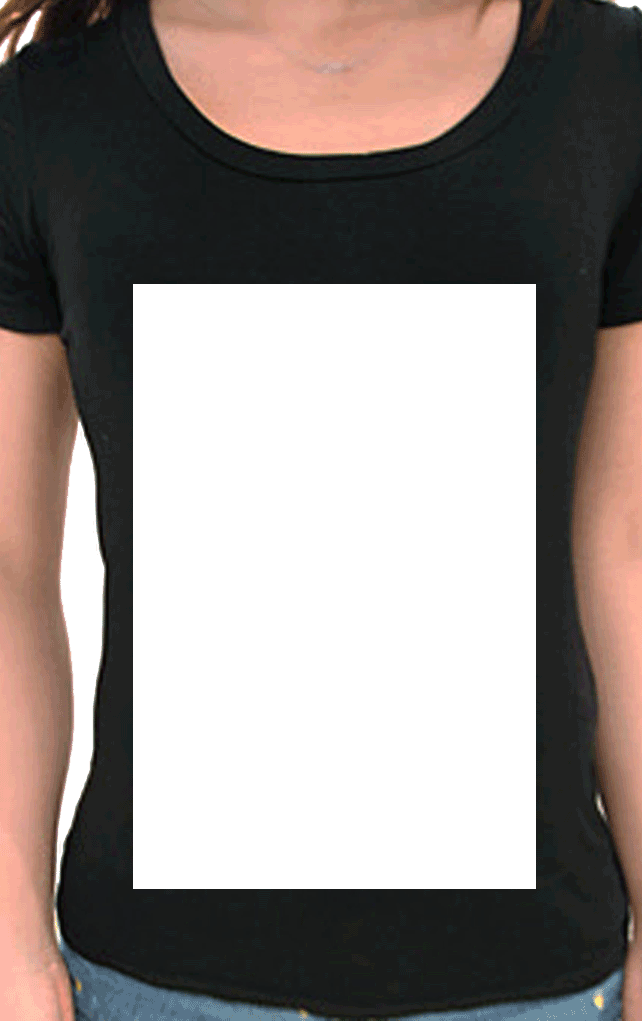
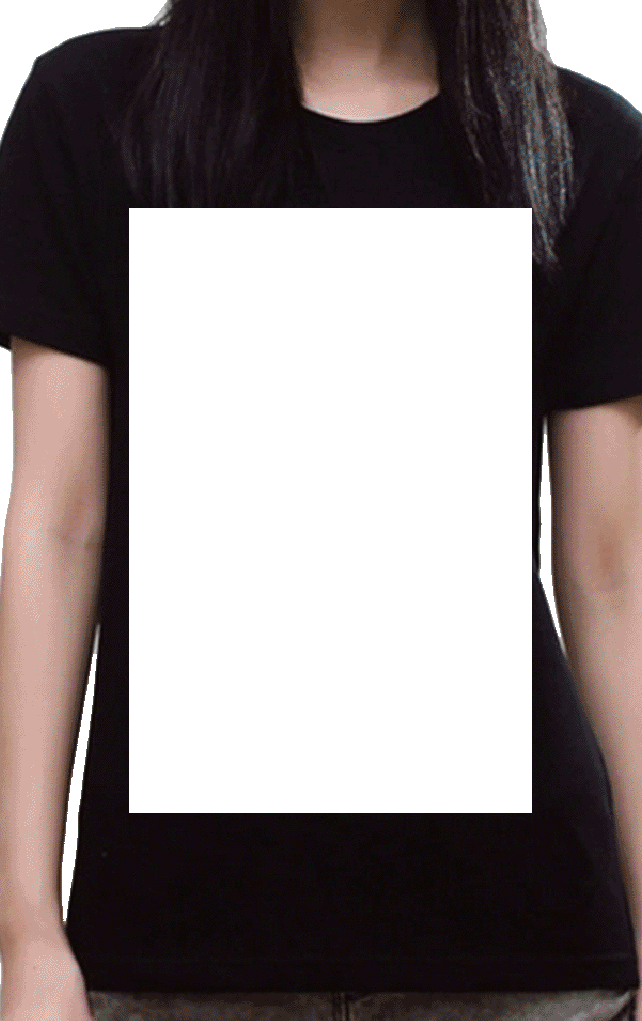
update preview

diff --git a/app/views/createDesign.js b/app/views/createDesign.js
@@ -685,14 +685,23 @@ oCreateDesign.controller('CreateDesignCtrl', ['$scope', '$location', '$upload', 
                 if ($scope.designInfo.color === 'white') {
                     $scope.designInfo.bkImg = 'img/female_white.png';
                     $scope.designInfo.previewBkImg = 'img/female_white_preview.png';
-                    var aStylePart = $scope.htmlItemStyle.availableArea.styleStr.split(';');
-                    aStylePart.splice(aStylePart.length - 2, 2);
-                    $scope.htmlItemStyle.availableArea.styleStr = aStylePart.join(';');
-                    $scope.htmlItemStyle.availableArea.styleStr += ';'
+                    if ($scope.htmlItemStyle.previewBackgroundStyle === '') {
+                        var sNewStyle = $scope.addKeyToStyle($scope.htmlItemStyle.availableArea.styleStr, 'background-color', 'inherit');
+                        $scope.htmlItemStyle.availableArea.styleStr = sNewStyle;
+                    } else {
+                        var sNewStyle = $scope.removeKeyFromStyle($scope.htmlItemStyle.availableArea.styleStr, 'background-color');
+                        $scope.htmlItemStyle.availableArea.styleStr = sNewStyle;
+                    }
                 } else {
                     $scope.designInfo.bkImg = 'img/female_black.png';
                     $scope.designInfo.previewBkImg = 'img/female_black_preview.png';
-                    $scope.htmlItemStyle.availableArea.styleStr += 'background-color:rgba(255,255,255,0.3);';
+                    if ($scope.htmlItemStyle.previewBackgroundStyle === '') {
+                        var sNewStyle = $scope.addKeyToStyle($scope.htmlItemStyle.availableArea.styleStr, 'background-color', 'inherit');
+                        $scope.htmlItemStyle.availableArea.styleStr = sNewStyle;
+                    } else {
+                        var sNewStyle = $scope.addKeyToStyle($scope.htmlItemStyle.availableArea.styleStr, 'background-color', 'rgba(255,255,255,0.3)');
+                        $scope.htmlItemStyle.availableArea.styleStr = sNewStyle;
+                    }
                 }
             }
         };
@@ -913,6 +922,8 @@ oCreateDesign.controller('CreateDesignCtrl', ['$scope', '$location', '$upload', 
                 "left:" + oArtifact.styleValue.left + "px;" + 
                 "width:" + oArtifact.imgWidth + "px;";
 
+            //oArtifact.styleStr = $scope.addKeyToStyle(oArtifact.styleStr, 'border', '2px dotted rgb(215, 180, 104)');
+
             oArtifact.pencilStyleStr = "top:" + oArtifact.styleValue.top + "px;" + 
                 "left:" + oArtifact.styleValue.pencilLeft + "px;";
 
@@ -987,10 +998,10 @@ oCreateDesign.controller('CreateDesignCtrl', ['$scope', '$location', '$upload', 
             var iWidth = oBkImg.clientWidth;
             var iHeight = oBkImg.clientHeight;
             $scope.htmlItemStyle.availableArea.visible = true;
-            $scope.htmlItemStyle.availableArea.width = iWidth * 0.6;
+            $scope.htmlItemStyle.availableArea.width = iWidth * 0.63;
             $scope.htmlItemStyle.availableArea.height = $scope.htmlItemStyle.availableArea.width * 1.5;
-            $scope.htmlItemStyle.availableArea.left = iWidth * 0.21;
-            $scope.htmlItemStyle.availableArea.top = iHeight * 0.22;
+            $scope.htmlItemStyle.availableArea.left = iWidth * 0.20;
+            $scope.htmlItemStyle.availableArea.top = iHeight * 0.20;
 
             if ($scope.aSelectedArtifact.length > 0) {
                 $scope.htmlItemStyle.availableArea.styleStr = "visibility:visible;" + 
@@ -1179,8 +1190,34 @@ oCreateDesign.controller('CreateDesignCtrl', ['$scope', '$location', '$upload', 
             // });
             if ($scope.htmlItemStyle.previewBackgroundStyle !== "") {
                 $scope.htmlItemStyle.previewBackgroundStyle = "";
+                for (var i = 0; i < $scope.aSelectedArtifact.length; i++) {
+                    var oCurArti = $scope.aSelectedArtifact[i];
+                    var sNewStyle = $scope.addKeyToStyle(oCurArti.styleStr, 'border', 'none');
+                    oCurArti.styleStr = sNewStyle;
+                }
+
+                if ($scope.designInfo.color === 'white') {
+                    var sNewAvailableStyle = $scope.addKeyToStyle($scope.htmlItemStyle.availableArea.styleStr, 'background-color', 'inherit');
+                    $scope.htmlItemStyle.availableArea.styleStr = sNewAvailableStyle;
+                } else {
+                    var sNewAvailableStyle = $scope.addKeyToStyle($scope.htmlItemStyle.availableArea.styleStr, 'background-color', 'inherit');
+                    $scope.htmlItemStyle.availableArea.styleStr = sNewAvailableStyle;
+                }
             } else {
                 $scope.htmlItemStyle.previewBackgroundStyle = "display:none;";
+                for (var i = 0; i < $scope.aSelectedArtifact.length; i++) {
+                    var oCurArti = $scope.aSelectedArtifact[i];
+                    var sNewStyle = $scope.removeKeyFromStyle(oCurArti.styleStr, 'border');
+                    oCurArti.styleStr = sNewStyle;
+                }
+
+                if ($scope.designInfo.color === 'white') {
+                    var sNewAvailableStyle = $scope.removeKeyFromStyle($scope.htmlItemStyle.availableArea.styleStr, 'background-color');
+                    $scope.htmlItemStyle.availableArea.styleStr = sNewAvailableStyle;
+                } else {
+                    var sNewAvailableStyle = $scope.addKeyToStyle($scope.htmlItemStyle.availableArea.styleStr, 'background-color', 'rgba(255,255,255,0.3)');
+                    $scope.htmlItemStyle.availableArea.styleStr = sNewAvailableStyle;
+                }
             }
         };
 
@@ -1336,6 +1373,52 @@ oCreateDesign.controller('CreateDesignCtrl', ['$scope', '$location', '$upload', 
                 var sInfo = JSON.stringify(oInfo);
                 return sInfo;
             }
+        };
+
+        $scope.removeKeyFromStyle = function(sOriginStyle, sKey) {
+            if (sOriginStyle === '') {
+                return '';
+            }
+
+            var aPairs = sOriginStyle.split(';');
+
+            if (aPairs.length === 1) {
+                var sKeyValue = aPairs[0];
+                var aValues = sKeyValue.split(':');
+                if (aValues.length === 1) {
+                    return '';
+                } else {
+                    if (aValues[0] === sKey) {
+                        return '';
+                    } else {
+                        return sOriginStyle;
+                    }
+                }
+            } else {
+                if (aPairs[aPairs.length - 1] === '') {
+                    aPairs.splice(aPairs.length - 1, 1);
+                }
+            }
+
+            var oNewPairs = [];
+            for (var i = 0; i < aPairs.length; i++) {
+                var oCurPair = aPairs[i];
+                var aParts = oCurPair.split(':');
+                if (aParts[0] !== sKey) {
+                    oNewPairs.push(oCurPair);
+                }
+            }
+
+            if (oNewPairs.length > 0) {
+                return oNewPairs.join(';') + ';';
+            } else {
+                return '';
+            }
+        }
+
+        $scope.addKeyToStyle = function(sOriginStyle, sKey, sValue) {
+            var sTempStyle = $scope.removeKeyFromStyle(sOriginStyle, sKey);
+            return sTempStyle + sKey + ':' + sValue + ';';
         };
 }]);
 

diff --git a/app/views/createDetail.html b/app/views/createDetail.html
@@ -30,15 +30,15 @@
                 hm-tap="onTap($event)"
                 style="{{oArtifact.styleStr}}">
                 <span class="selectedArtifactItemPencil glyphicon glyphicon-pencil" 
-                style="{{oArtifact.pencilStyleStr}}"
+                style="{{htmlItemStyle.previewBackgroundStyle ? oArtifact.pencilStyleStr : 'display:none;'}}"
                 ng-click="onEditArtifactItemClicked()"></span>
                 <span class="selectedArtifactItemResize glyphicon glyphicon-resize-full" 
-                style="{{oArtifact.resizeStyleStr}}" 
+                style="{{htmlItemStyle.previewBackgroundStyle ? oArtifact.resizeStyleStr : 'display:none;'}}" 
                 hm-drag="onSelectedArtiItemResizeDrag($event, oArtifact)" 
                 hm-dragend="onSelectedArtiItemResizeDragend($event, oArtifact)" 
                 ></span>
                 <span class="selectedArtifactItemResize glyphicon glyphicon-remove" 
-                style="{{oArtifact.removeStyleStr}}" 
+                style="{{htmlItemStyle.previewBackgroundStyle ? oArtifact.removeStyleStr : 'display:none;'}}" 
                 ng-click="onRemoveArtifactItemClicked(oArtifact)" 
                 ></span>
             </div>

diff --git a/app/app.css b/app/app.css
@@ -390,7 +390,6 @@ body.weavesFunBody {
 }
 
 .createDetailView .selectedArtifactArea .selectedArtifactItem img {
-  width: 70%;
   position: relative;
   border-width: 2px;
   border-style: dotted;
@@ -409,13 +408,13 @@ body.weavesFunBody {
   text-align: center;
   position: fixed;
   bottom: 40px;
-  height: 35px;
+  height: 25px;
   width: 100%;
   background-color: rgba(207, 176, 96, 0.5);
 }
 
 .createDetailView .previewDesignBtn > span {
-  font-size: 25px;
+  font-size: 18px;
 }
 
 .createDetailView .saveDetailView {
